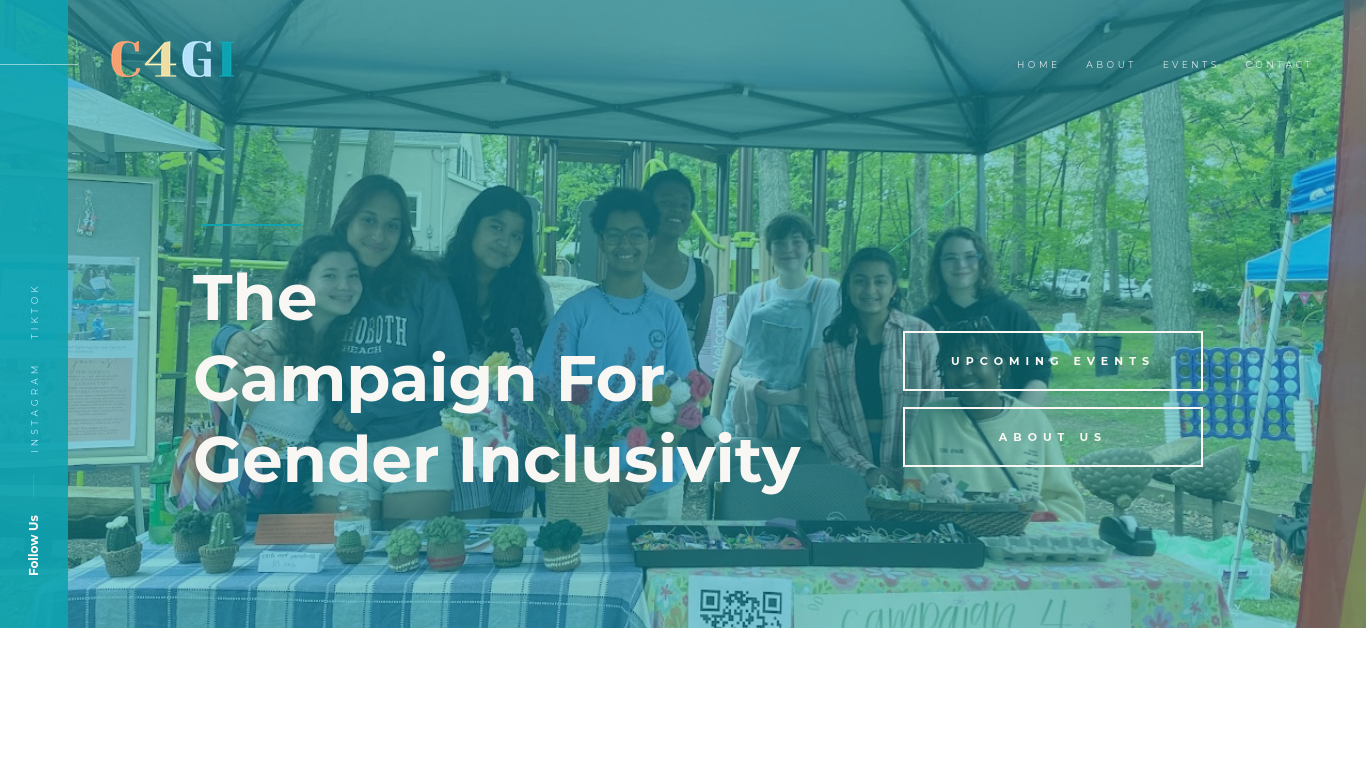
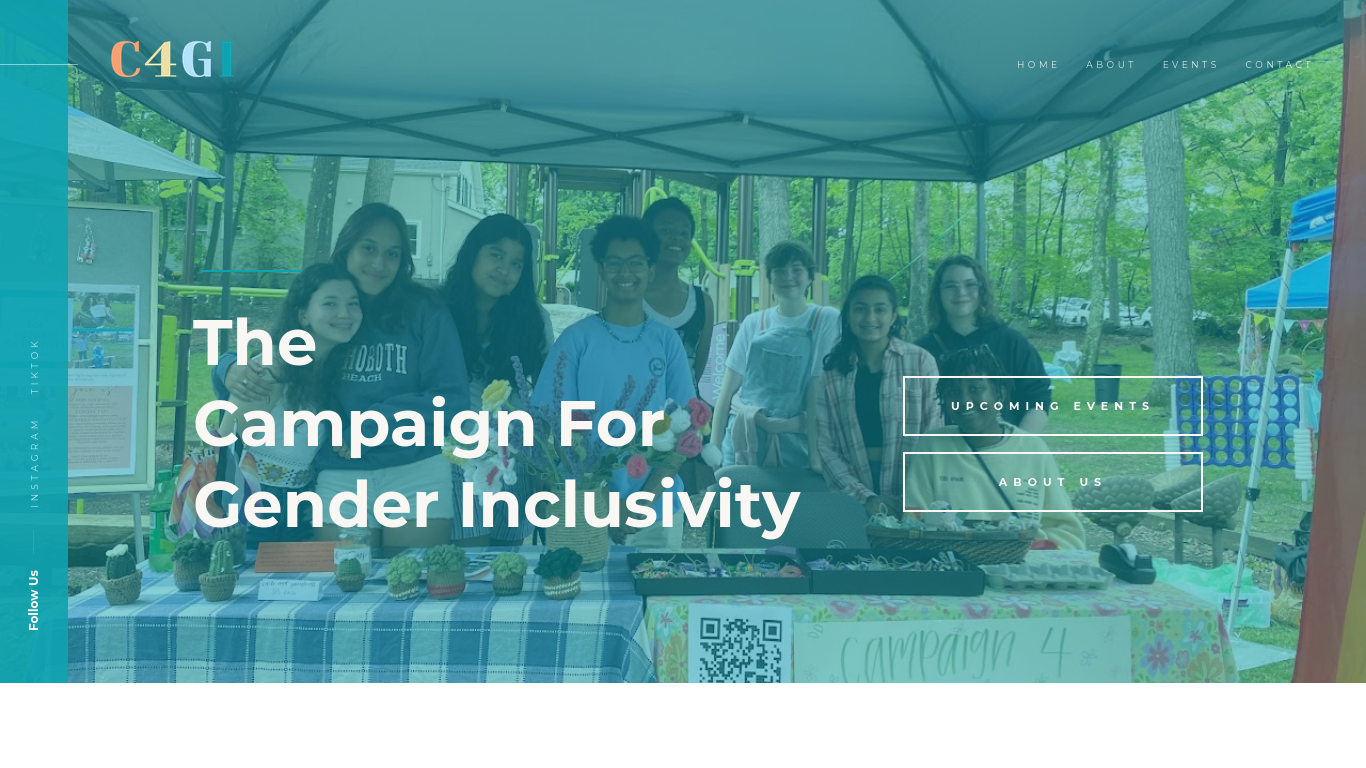
Worked more on hero, started trying to fix the mobile view.

diff --git a/index.html b/index.html
@@ -11,7 +11,7 @@
 </head>
 <body>
 <section class="s-hero">
-    <div class="hero-project-preview-side-column">
+    <div class="hero-project-preview-side-column slide-left">
         <a class="hero-project-preview">
             <div class="hero-project-preview-thumbnail">
             </div>
@@ -25,7 +25,35 @@
             </div>
         </a>
     </div>
-    <div class="hero-project-preview-side-column">
+    <div class="hero-project-preview-side-column slide-left">
+        <a class="hero-project-preview">
+            <div class="hero-project-preview-thumbnail">
+            </div>
+        </a>
+        <a class="hero-project-preview">
+            <div class="hero-project-preview-thumbnail">
+            </div>
+        </a>
+        <a class="hero-project-preview">
+            <div class="hero-project-preview-thumbnail">
+            </div>
+        </a>
+    </div>
+    <div class="hero-project-preview-side-column slide-left">
+        <a class="hero-project-preview">
+            <div class="hero-project-preview-thumbnail">
+            </div>
+        </a>
+        <a class="hero-project-preview">
+            <div class="hero-project-preview-thumbnail">
+            </div>
+        </a>
+        <a class="hero-project-preview">
+            <div class="hero-project-preview-thumbnail">
+            </div>
+        </a>
+    </div>
+    <div class="hero-project-preview-side-column slide-left">
         <a class="hero-project-preview">
             <div class="hero-project-preview-thumbnail">
             </div>
@@ -40,17 +68,17 @@
         </a>
     </div>
     <div class="hero-project-preview-center-column">
-        <div class="hero-project-preview-row">
-            <a class="hero-project-preview">
+        <div class="hero-project-preview-row slide-right">
+            <a class="hero-project-preview" href="" target="_blank">
                 <div class="hero-project-preview-thumbnail">
                 </div>
             </a>
-            <a class="hero-project-preview">
-                <div class="hero-project-preview-thumbnail">
+            <a class="hero-project-preview" href="https://c4gi.github.io/" target="_blank">
+                <div class="hero-project-preview-thumbnail c4gi-thumbnail">C4GI
                 </div>
             </a>
-            <a class="hero-project-preview">
-                <div class="hero-project-preview-thumbnail">eightmileseight.github.io
+            <a class="hero-project-preview" href="https://github.com/eightmileseight/" target="_blank">
+                <div class="hero-project-preview-thumbnail github-thumbnail">GitHub
                 </div>
             </a>
         </div>
@@ -58,22 +86,22 @@
             <h1>I'm 8Miles8.</h1>
             <h2>I make <a href="https://github.com/eightmileseight/" target="_blank">things.</a></h2>
         </div>
-        <div class="hero-project-preview-row">
-            <a class="hero-project-preview">
-                <div class="hero-project-preview-thumbnail">
+        <div class="hero-project-preview-row slide-left">
+            <a class="hero-project-preview" href="https://github.com/eightmileseight/act_scene_voicerecog_pi/" target="_blank">
+                <div class="hero-project-preview-thumbnail act_scene_voicerecog_pi-thumbnail">SceneRecognizer
                 </div>
             </a>
-            <a class="hero-project-preview">
-                <div class="hero-project-preview-thumbnail">
+            <a class="hero-project-preview" href="https://wjsv.github.io/" target="_blank">
+                <div class="hero-project-preview-thumbnail wjsv-thumbnail">WJSV
                 </div>
             </a>
-            <a class="hero-project-preview">
+            <a class="hero-project-preview" href="" target="_blank">
                 <div class="hero-project-preview-thumbnail">
                 </div>
             </a>
         </div>
     </div>
-    <div class="hero-project-preview-side-column">
+    <div class="hero-project-preview-side-column slide-right">
         <a class="hero-project-preview">
             <div class="hero-project-preview-thumbnail">
             </div>
@@ -87,7 +115,35 @@
             </div>
         </a>
     </div>
-    <div class="hero-project-preview-side-column">
+    <div class="hero-project-preview-side-column slide-right">
+        <a class="hero-project-preview">
+            <div class="hero-project-preview-thumbnail">
+            </div>
+        </a>
+        <a class="hero-project-preview">
+            <div class="hero-project-preview-thumbnail">
+            </div>
+        </a>
+        <a class="hero-project-preview">
+            <div class="hero-project-preview-thumbnail">
+            </div>
+        </a>
+    </div>
+    <div class="hero-project-preview-side-column slide-right">
+        <a class="hero-project-preview">
+            <div class="hero-project-preview-thumbnail">
+            </div>
+        </a>
+        <a class="hero-project-preview">
+            <div class="hero-project-preview-thumbnail">
+            </div>
+        </a>
+        <a class="hero-project-preview">
+            <div class="hero-project-preview-thumbnail">
+            </div>
+        </a>
+    </div>
+    <div class="hero-project-preview-side-column slide-right">
         <a class="hero-project-preview">
             <div class="hero-project-preview-thumbnail">
             </div>

diff --git a/css/main.css b/css/main.css
@@ -5,6 +5,7 @@ Table of Contents:
     Animations
     Hero
         Project Previews
+            Individual Previews
         Header
         Responsive
 */
@@ -63,7 +64,7 @@ h1, h2, h3, h4, h5, h6 {
 
 @keyframes slide-right {
     0% {
-        transform: translatex(-10rem);
+        transform: translatex(30rem);
     }
     100% {
         transform: translatex(0);
@@ -72,13 +73,13 @@ h1, h2, h3, h4, h5, h6 {
 
 @media (max-width: 750px) {
     .slide-right {
-        animation: slide-right 5s;
+        animation: slide-left 10s;
     }
 }
 
 @keyframes slide-left {
     0% {
-        transform: translatex(10rem);
+        transform: translatex(-30rem);
     }
     100% {
         transform: translatex(0);
@@ -87,7 +88,7 @@ h1, h2, h3, h4, h5, h6 {
 
 @media (max-width: 750px) {
     .slide-left {
-        animation: slide-left 5s;
+        animation: slide-right 10s;
     }
 }
 
@@ -115,6 +116,7 @@ h1, h2, h3, h4, h5, h6 {
 .s-hero {
     margin: 0;
     padding: 3rem;
+    padding-top: 1rem;
     display: flex;
     justify-content: center;
     background-color: #ff00c1;
@@ -132,12 +134,19 @@ h1, h2, h3, h4, h5, h6 {
 }
 
 .hero-project-preview-side-column {
-    margin: 0;
-    padding: 0;
     display: flex;
     flex-direction: row;
     justify-content: center;
 }
+
+.hero-project-preview-side-column>a:nth-child(even){
+    margin-top: -0.25rem;
+}
+
+.hero-project-preview-side-column>a:nth-child(odd){
+    margin-top: 1.25rem;
+}
+
 .hero-project-preview-row {
     margin: 0;
     padding: 0;
@@ -160,6 +169,7 @@ h1, h2, h3, h4, h5, h6 {
     height: 5rem;
     width: 8.5rem;
     transition: 0.3s ease-in-out;
+    text-decoration: none;
 }
 
 .hero-project-preview:hover,
@@ -180,7 +190,7 @@ h1, h2, h3, h4, h5, h6 {
     box-shadow: 0 3px 1rem rgba(0, 0, 0, 0.5);
     transition: 0.3s ease-in-out;
     text-align: center;
-    font-size: 1rem;
+    font-size: 1.5rem;
     color: rgba(150,0,255,0);
 }
 
@@ -189,6 +199,23 @@ h1, h2, h3, h4, h5, h6 {
 .hero-project-preview-thumbnail:active {
     color: rgba(150,0,255,1);
     text-shadow: 0 3px 1rem #000000;
+}
+
+/* Individual Previews */
+.github-thumbnail {
+    background-image: url("https://eightmileseight.github.io/test/assets/github.png");
+}
+
+.c4gi-thumbnail {
+    background-image: url("https://eightmileseight.github.io/test/assets/c4gi.png");
+}
+
+.wjsv-thumbnail {
+    background-image: url("https://eightmileseight.github.io/test/assets/wjsv.png");
+}
+
+.act_scene_voicerecog_pi-thumbnail {
+    background-image: url("https://eightmileseight.github.io/test/assets/act_scene_voicerecog_pi.png");
 }
 
 /* Header */
@@ -206,8 +233,8 @@ h1, h2, h3, h4, h5, h6 {
 }
 
 .hero-text h2 {
-    line-height: 1rem;
-    font-size: 1rem;
+    line-height: 1.5rem;
+    font-size: 1.5rem;
     text-shadow: #000000 0 0 0.3rem;
 }
 
@@ -230,36 +257,71 @@ a:active
         background-color: #9600ff;
     }
 
-    .s-hero>div:nth-child(1){
+    .s-hero>div:nth-child(1) {
         padding-bottom: 2rem;
+        animation: fade-up ease 0.5s 0.1s backwards;
     }
 
-    .s-hero>div:nth-child(4){
+    .s-hero>div:nth-child(2) {
+        padding-top: 2rem;
+        animation: fade-up ease 0.5s 0.2s backwards;
+    }
+
+    .s-hero>div:nth-child(3) {
         padding-bottom: 2rem;
+        animation: fade-up ease 0.5s 0.3s backwards;
     }
 
-    .s-hero>div:nth-child(2){
+    .s-hero>div:nth-child(4) {
         padding-top: 2rem;
+        animation: fade-up ease 0.5s 0.4s backwards;
     }
 
-    .s-hero>div:nth-child(5){
+    .s-hero>div:nth-child(6) {
+        padding-bottom: 2rem;
+        animation: fade-up ease 0.5s 0.8s backwards;
+    }
+
+    .s-hero>div:nth-child(7) {
         padding-top: 2rem;
+        animation: fade-up ease 0.5s 0.9s backwards;
+    }
+
+    .s-hero>div:nth-child(8) {
+        padding-bottom: 2rem;
+        animation: fade-up ease 0.5s 1s backwards;
+    }
+
+    .s-hero>div:nth-child(8) {
+        padding-top: 2rem;
+        animation: fade-up ease 0.5s 1.1s backwards;
     }
 
     .hero-project-preview-side-column {
+        margin: 0;
+        padding: 0;
         flex-direction: column;
+        vertical-align: unset;
+    }
+
+    .hero-project-preview-side-column>a:nth-child(even){
+        margin-top: 0;
+    }
+
+    .hero-project-preview-side-column>a:nth-child(odd){
+        margin-top: 0;
     }
 
     .hero-project-preview-row>a:nth-child(1) {
-        animation: fade-up ease 0.5s 0.3s backwards;
+        animation: fade-up ease 0.5s 0.5s backwards;
     }
 
     .hero-project-preview-row>a:nth-child(2) {
-        animation: fade-up ease 0.5s 0.3s backwards;
+        animation: fade-up ease 0.5s 0.6s backwards;
     }
 
     .hero-project-preview-row>a:nth-child(3) {
-        animation: fade-up ease 0.5s 0.5s backwards;
+        animation: fade-up ease 0.5s 0.7s backwards;
     }
 
     .hero-project-preview {
@@ -268,22 +330,6 @@ a:active
         min-height: 7rem;
         min-width: 12rem;
         animation: unset;
-    }
-
-    .s-hero>div:nth-child(1) {
-        animation: fade-up ease 0.5s 0.1s backwards;
-    }
-
-    .s-hero>div:nth-child(2) {
-        animation: fade-up ease 0.5s 0.2s backwards;
-    }
-
-    .s-hero>div:nth-child(4) {
-        animation: fade-up ease 0.5s 0.6s backwards;
-    }
-
-    .s-hero>div:nth-child(5) {
-        animation: fade-up ease 0.5s 0.7s backwards;
     }
 
     .hero-text h1 {
